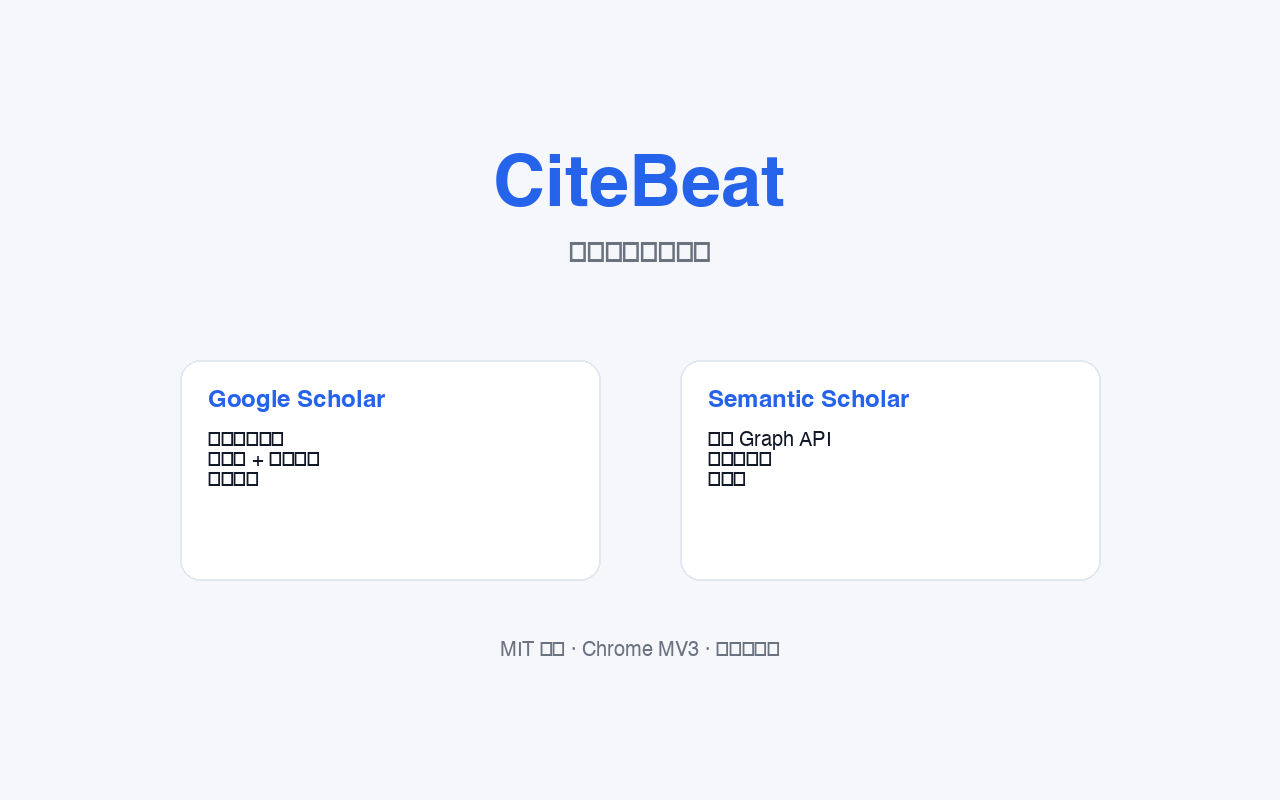
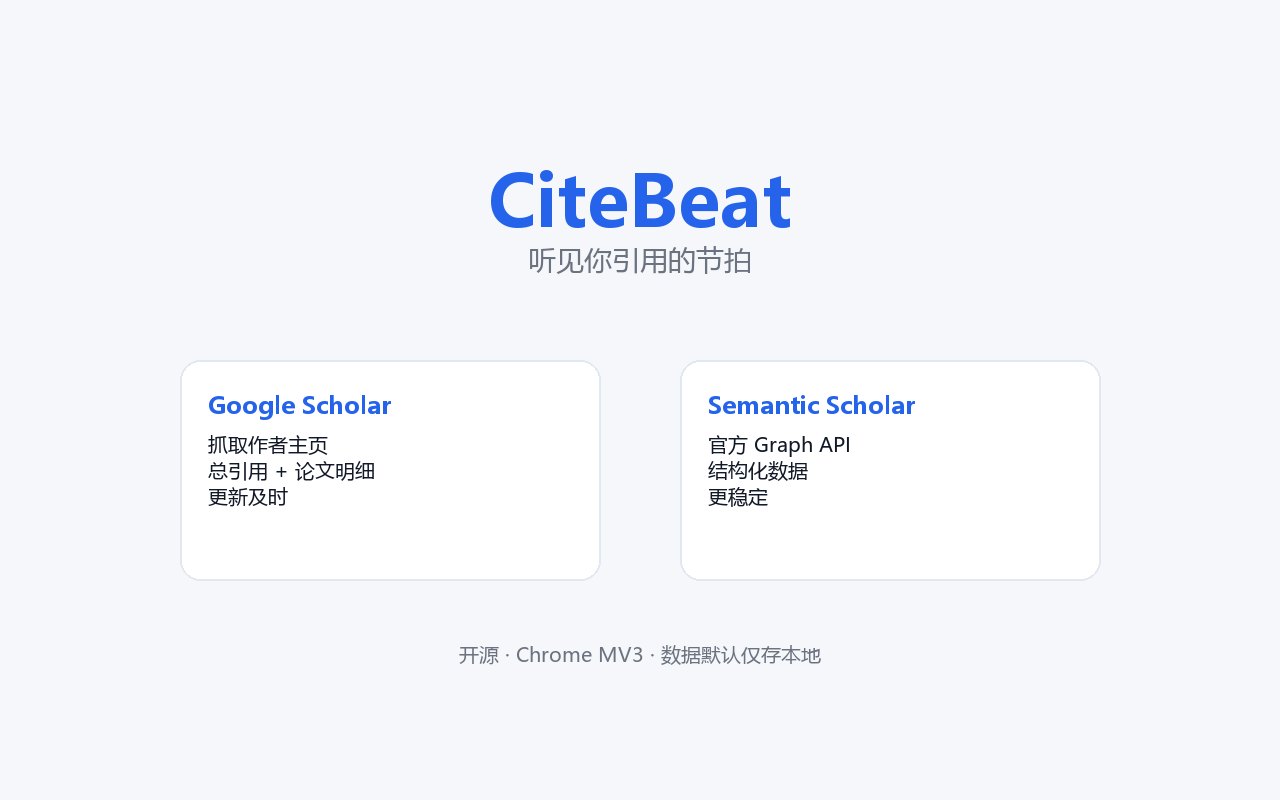
Regenerate store screenshots from the real UI · v0.3.3
The store screenshots still showed the v0.1.x popup: no trend chart, no
share button, and a 重置基线 label that no longer exists. Uploading those
alongside copy that advertises the trend chart would be a listing that
contradicts itself.

Add scripts/render_ui.mjs, which renders the actual popup and options
pages with headless Chrome. Rather than hand-writing mock markup that
drifts from reality, it injects a chrome.* stub and lets the real
popup.js / options.js run, so the DOM comes from the same render path
users see and only the data is seeded. Re-run it after any UI change to
refresh the captures.

Seed data is chosen so the numbers reconcile on screen: two papers at +5
and +3, one merged-away duplicate at -3, headline badge +5. An earlier
seed happened to net to zero, which rendered a correct but confusing +0.

Screenshot composition fixes:
  - shot1 capped width but not height, so the popup overflowed the 800px
    canvas and clipped the 引用减少 / 被合并 section - the very thing the
    adjacent bullet advertises. Now fits within the band on both axes.
  - shot2 scaled the full options page into a 520px strip, which made the
    text illegible. Now crops to the top section and keeps it readable.
  - load_font only listed macOS paths, so on Windows it silently fell
    back to a bitmap font that renders Chinese as empty boxes. Added
    Windows and Linux CJK paths, and it now fails loudly instead.
  - hero footer still read MIT; the licence is SymPro.
[…]

diff --git a/options/options.html b/options/options.html
@@ -102,8 +102,8 @@
 
   <h2>主页数据上报（可选）</h2>
   <div class="row">
-    <label class="inline"><input id="endpointEnabled" type="checkbox"> 启用向自定义节点上报</label>
-    <div class="hint">默认关闭。启用后，扩展会按下面的周期把引用快照 POST 到你自己填写的地址；不填就永远不会发送。</div>
+    <label class="inline"><input id="endpointEnabled" type="checkbox"> 启用上报</label>
+    <div class="hint">默认关闭。启用后，扩展会按下面的周期把引用快照同步到你自己配置的目标；不配置就永远不会发送。</div>
   </div>
 
   <div class="row">

diff --git a/scripts/make_store_screenshots.py b/scripts/make_store_screenshots.py
@@ -16,19 +16,31 @@ SUB = (107, 114, 128)
 
 
 def load_font(size, bold=False):
+    """Find a CJK-capable font. The bitmap fallback cannot render Chinese,
+    so fail loudly rather than silently emitting tofu boxes."""
     candidates = [
-        "/System/Library/Fonts/PingFang.ttc",
-        "/System/Library/Fonts/Helvetica.ttc",
-        "/Library/Fonts/Arial.ttf",
+        # macOS
+        ("/System/Library/Fonts/PingFang.ttc", 1 if bold else 0),
+        ("/System/Library/Fonts/Hiragino Sans GB.ttc", 0),
+        # Windows
+        (r"C:\Windows\Fonts\msyhbd.ttc" if bold else r"C:\Windows\Fonts\msyh.ttc", 0),
+        (r"C:\Windows\Fonts\simhei.ttf", 0),
+        (r"C:\Windows\Fonts\simsun.ttc", 0),
+        # Linux
+        ("/usr/share/fonts/opentype/noto/NotoSansCJK-Bold.ttc" if bold
+         else "/usr/share/fonts/opentype/noto/NotoSansCJK-Regular.ttc", 0),
+        ("/usr/share/fonts/truetype/wqy/wqy-zenhei.ttc", 0),
     ]
-    for p in candidates:
+    for path, index in candidates:
         try:
-            return ImageFont.truetype(
-                p, size, index=1 if bold and p.endswith(".ttc") else 0
-            )
+            return ImageFont.truetype(path, size, index=index)
         except Exception:
             continue
-    return ImageFont.load_default()
+    raise SystemExit(
+        "No CJK font found. Install one, or add its path to load_font().\n"
+        "The default bitmap font renders Chinese as empty boxes, which would\n"
+        "silently produce broken store screenshots."
+    )
 
 
 def paste_with_shadow(canvas, img, pos, radius=24, shadow=18):
@@ -64,25 +76,28 @@ def shot1():
     make_header(canvas, "CiteBeat", "听见你引用的节拍 · 追踪每篇论文的引用增长")
 
     popup = Image.open(DOCS / "screenshot-popup.png").convert("RGBA")
-    # 放大到约 560 宽
-    ratio = 560 / popup.width
-    popup = popup.resize((560, int(popup.height * ratio)), Image.LANCZOS)
-    paste_with_shadow(canvas, popup, (80, 200))
+    # Fit inside the 200..760 band so nothing is clipped by the canvas edge.
+    MAX_W, MAX_H = 560, 560
+    ratio = min(MAX_W / popup.width, MAX_H / popup.height)
+    popup = popup.resize(
+        (int(popup.width * ratio), int(popup.height * ratio)), Image.LANCZOS
+    )
+    paste_with_shadow(canvas, popup, (110, 200))
 
     # 右侧说明
     draw = ImageDraw.Draw(canvas)
     tf = load_font(34, bold=True)
     bf = load_font(22)
-    draw.text((720, 220), "本周期新增引用", fill=ACCENT, font=tf)
+    draw.text((760, 240), "本周期新增引用", fill=ACCENT, font=tf)
     bullets = [
         "• 按论文粒度记录基线",
-        "• 实时显示增长数量与总引用",
+        "• 引用减少或被合并也单独列出",
+        "• 内置引用趋势图",
         "• 支持 Google Scholar / Semantic Scholar",
-        "• 一键手动刷新或重置基线",
     ]
-    y = 285
+    y = 305
     for b in bullets:
-        draw.text((720, y), b, fill=TEXT, font=bf)
+        draw.text((760, y), b, fill=TEXT, font=bf)
         y += 42
 
     canvas.convert("RGB").save(OUT / "screenshot-1-popup.png", "PNG", optimize=True)
@@ -92,19 +107,36 @@ def shot1():
 def shot2():
     """Options 界面"""
     canvas = Image.new("RGBA", (W, H), BG + (255,))
-    make_header(canvas, "灵活配置", "双数据源切换 · 自定义刷新间隔")
+    make_header(canvas, "灵活配置", "双数据源切换 · 自动统计周期 · 可选主页上报")
 
     opts = Image.open(DOCS / "screenshot-options.png").convert("RGBA")
-    # 缩小到 900 宽
-    ratio = 900 / opts.width
-    opts = opts.resize((900, int(opts.height * ratio)), Image.LANCZOS)
-    # 可能超高，限高 520
-    if opts.height > 520:
-        r2 = 520 / opts.height
-        opts = opts.resize((int(opts.width * r2), 520), Image.LANCZOS)
-    x = (W - opts.width) // 2
-    y = 220
-    paste_with_shadow(canvas, opts, (x, y))
+    # The options page is far taller than the 1280x800 canvas. Scaling the
+    # whole page down makes the text unreadable, so crop to the top section
+    # instead. Raise CROP if the page grows and the cut lands mid-field.
+    CROP = 0.54
+    opts = opts.crop((0, 0, opts.width, int(opts.height * CROP)))
+
+    MAX_W, MAX_H = 700, 560
+    ratio = min(MAX_W / opts.width, MAX_H / opts.height)
+    opts = opts.resize(
+        (int(opts.width * ratio), int(opts.height * ratio)), Image.LANCZOS
+    )
+    paste_with_shadow(canvas, opts, (80, 200))
+
+    draw = ImageDraw.Draw(canvas)
+    tf = load_font(34, bold=True)
+    bf = load_font(22)
+    draw.text((830, 240), "按你的习惯配置", fill=ACCENT, font=tf)
+    bullets = [
+        "• 双数据源随时切换",
+        "• 手动 / 每周 / 每月 / 每 N 天",
+        "• 可选上报到自己的主页",
+        "• 数据默认仅存本地",
+    ]
+    y = 305
+    for b in bullets:
+        draw.text((830, y), b, fill=TEXT, font=bf)
+        y += 42
 
     canvas.convert("RGB").save(OUT / "screenshot-2-options.png", "PNG", optimize=True)
     print("screenshot-2-options.png")
@@ -151,7 +183,7 @@ def shot3():
 
     # 底部说明
     foot = load_font(20)
-    ft = "MIT 开源 · Chrome MV3 · 无数据收集"
+    ft = "开源 · Chrome MV3 · 数据默认仅存本地"
     fw = draw.textlength(ft, font=foot)
     draw.text(((W - fw) // 2, 640), ft, fill=SUB, font=foot)
 

diff --git a/store/chrome/SUBMISSION.md b/store/chrome/SUBMISSION.md
@@ -10,34 +10,29 @@
 
 | 项 | 状态 | 说明 |
 |---|---|---|
-| 扩展包 | 就绪 | `dist/citebeat-0.3.2.zip`（25 文件，无冗余） |
+| 扩展包 | 就绪 | `dist/citebeat-0.3.3.zip`（25 文件，无冗余） |
 | 隐私政策 URL | 就绪 | https://sci-m-wang.github.io/CiteBeat/privacy/ |
 | 128×128 图标 | 就绪 | 已在包内 |
-| **截图** | **待更新** | 现有素材是 v0.1.x 界面，缺趋势图/分享/上报区，必须重拍 |
-| 小宣传图 440×280 | 可选 | `store/promo-small-440x280.png`（也是旧版界面） |
+| 截图 ×3 | 就绪 | `store/screenshot-{1,2,3}-*.png`，1280×800，已对齐 v0.3.x 界面 |
+| 小宣传图 440×280 | 可选 | `store/promo-small-440x280.png` |
 
 ---
 
-## 1. 重拍截图
+## 1. 截图生成流程
 
-Chrome 接受 **1280×800** 或 640×400，1-5 张。建议 3 张：
+截图是**用真实 UI 渲染**的，不是手绘稿：
 
-1. **弹窗** — 总引用、趋势图、本周期新增列表
-2. **设置页上半** — 数据源、作者 ID、刷新间隔、统计周期
-3. **设置页下半** — 主页数据上报（GitHub Pages 模式展开，Token 留空）
-
-拍法：
-
-```
-1. chrome://extensions → 加载 dist/unpacked
-2. 弹窗：点图标 → 右键「检查」→ DevTools 里对 popup 截图
-   或直接系统截图后按下面的脚本补到 1280×800
-3. 设置页：右键图标 →「选项」→ 浏览器窗口调到 1280×800 后截图
+```bash
+node scripts/render_ui.mjs            # 无头 Chrome 渲染真实 popup/options → docs/
+python scripts/make_store_screenshots.py   # 合成 1280×800 商店图 → store/
 ```
 
-> 截图里不要出现真实 Token。上报区截图前先点「清除 Token」或把输入框留空。
+`render_ui.mjs` 给真实的 `popup.js` / `options.js` 注入 `chrome.*` 桩，
+让它们跑真实的渲染逻辑、套真实的 CSS，只把数据换成预置样例。
+所以截图里的布局、控件、文案都与实际运行一致，改了 UI 重跑即可刷新。
 
-拿到原图后我可以帮你统一裁到 1280×800。
+预置数据刻意让数字自洽：列表 `+5 / +3`，被合并条目 `-3`，徽章 `+5`。
+截图中不含任何真实 Token。
 
 ---
 
